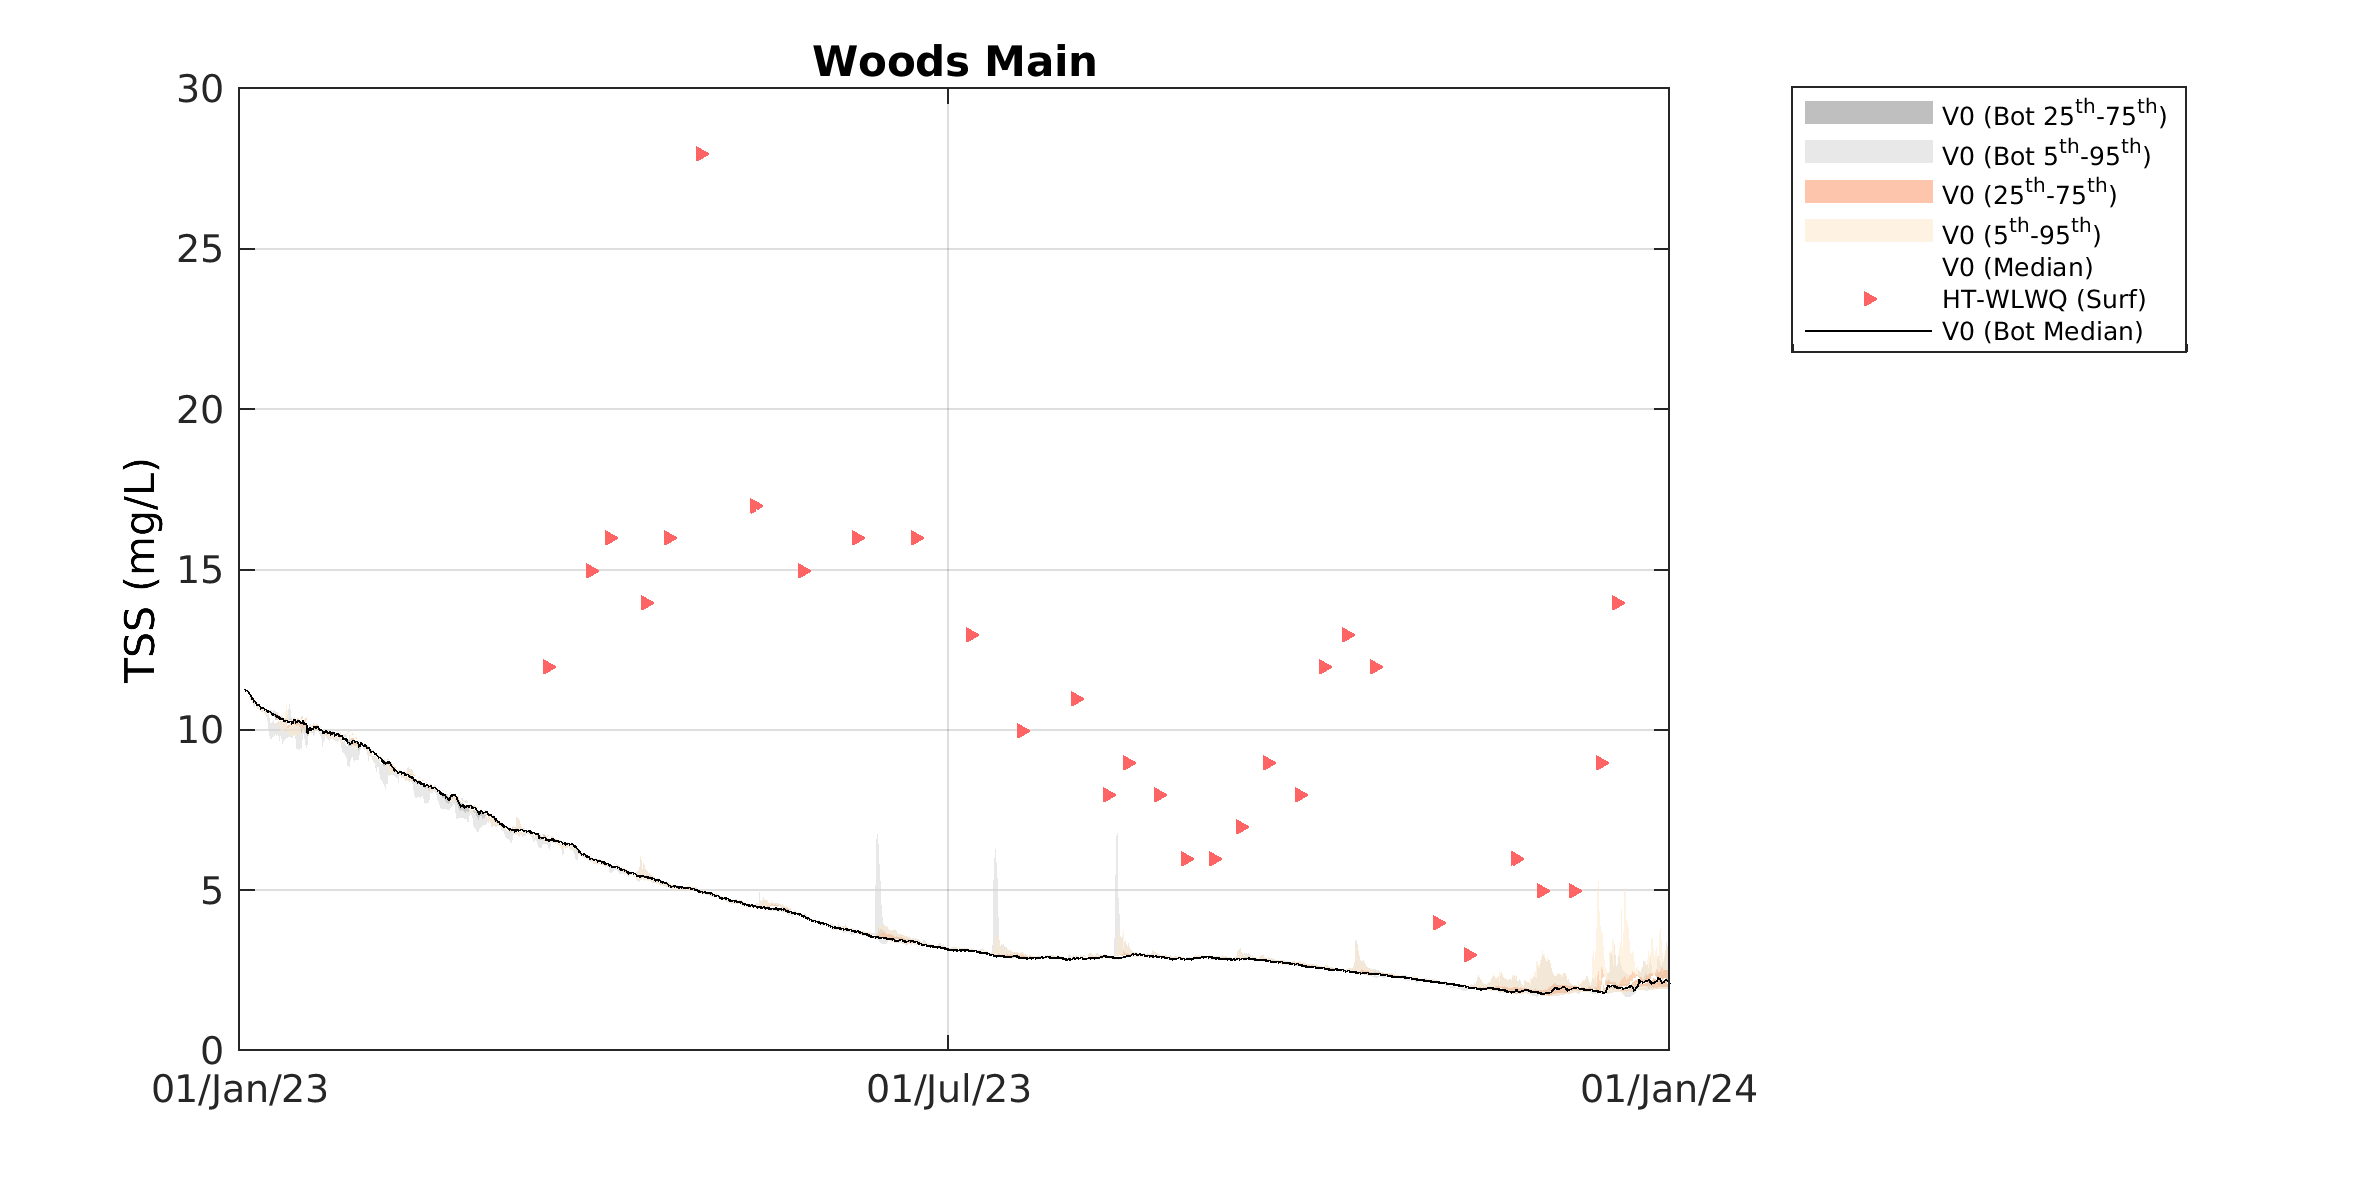
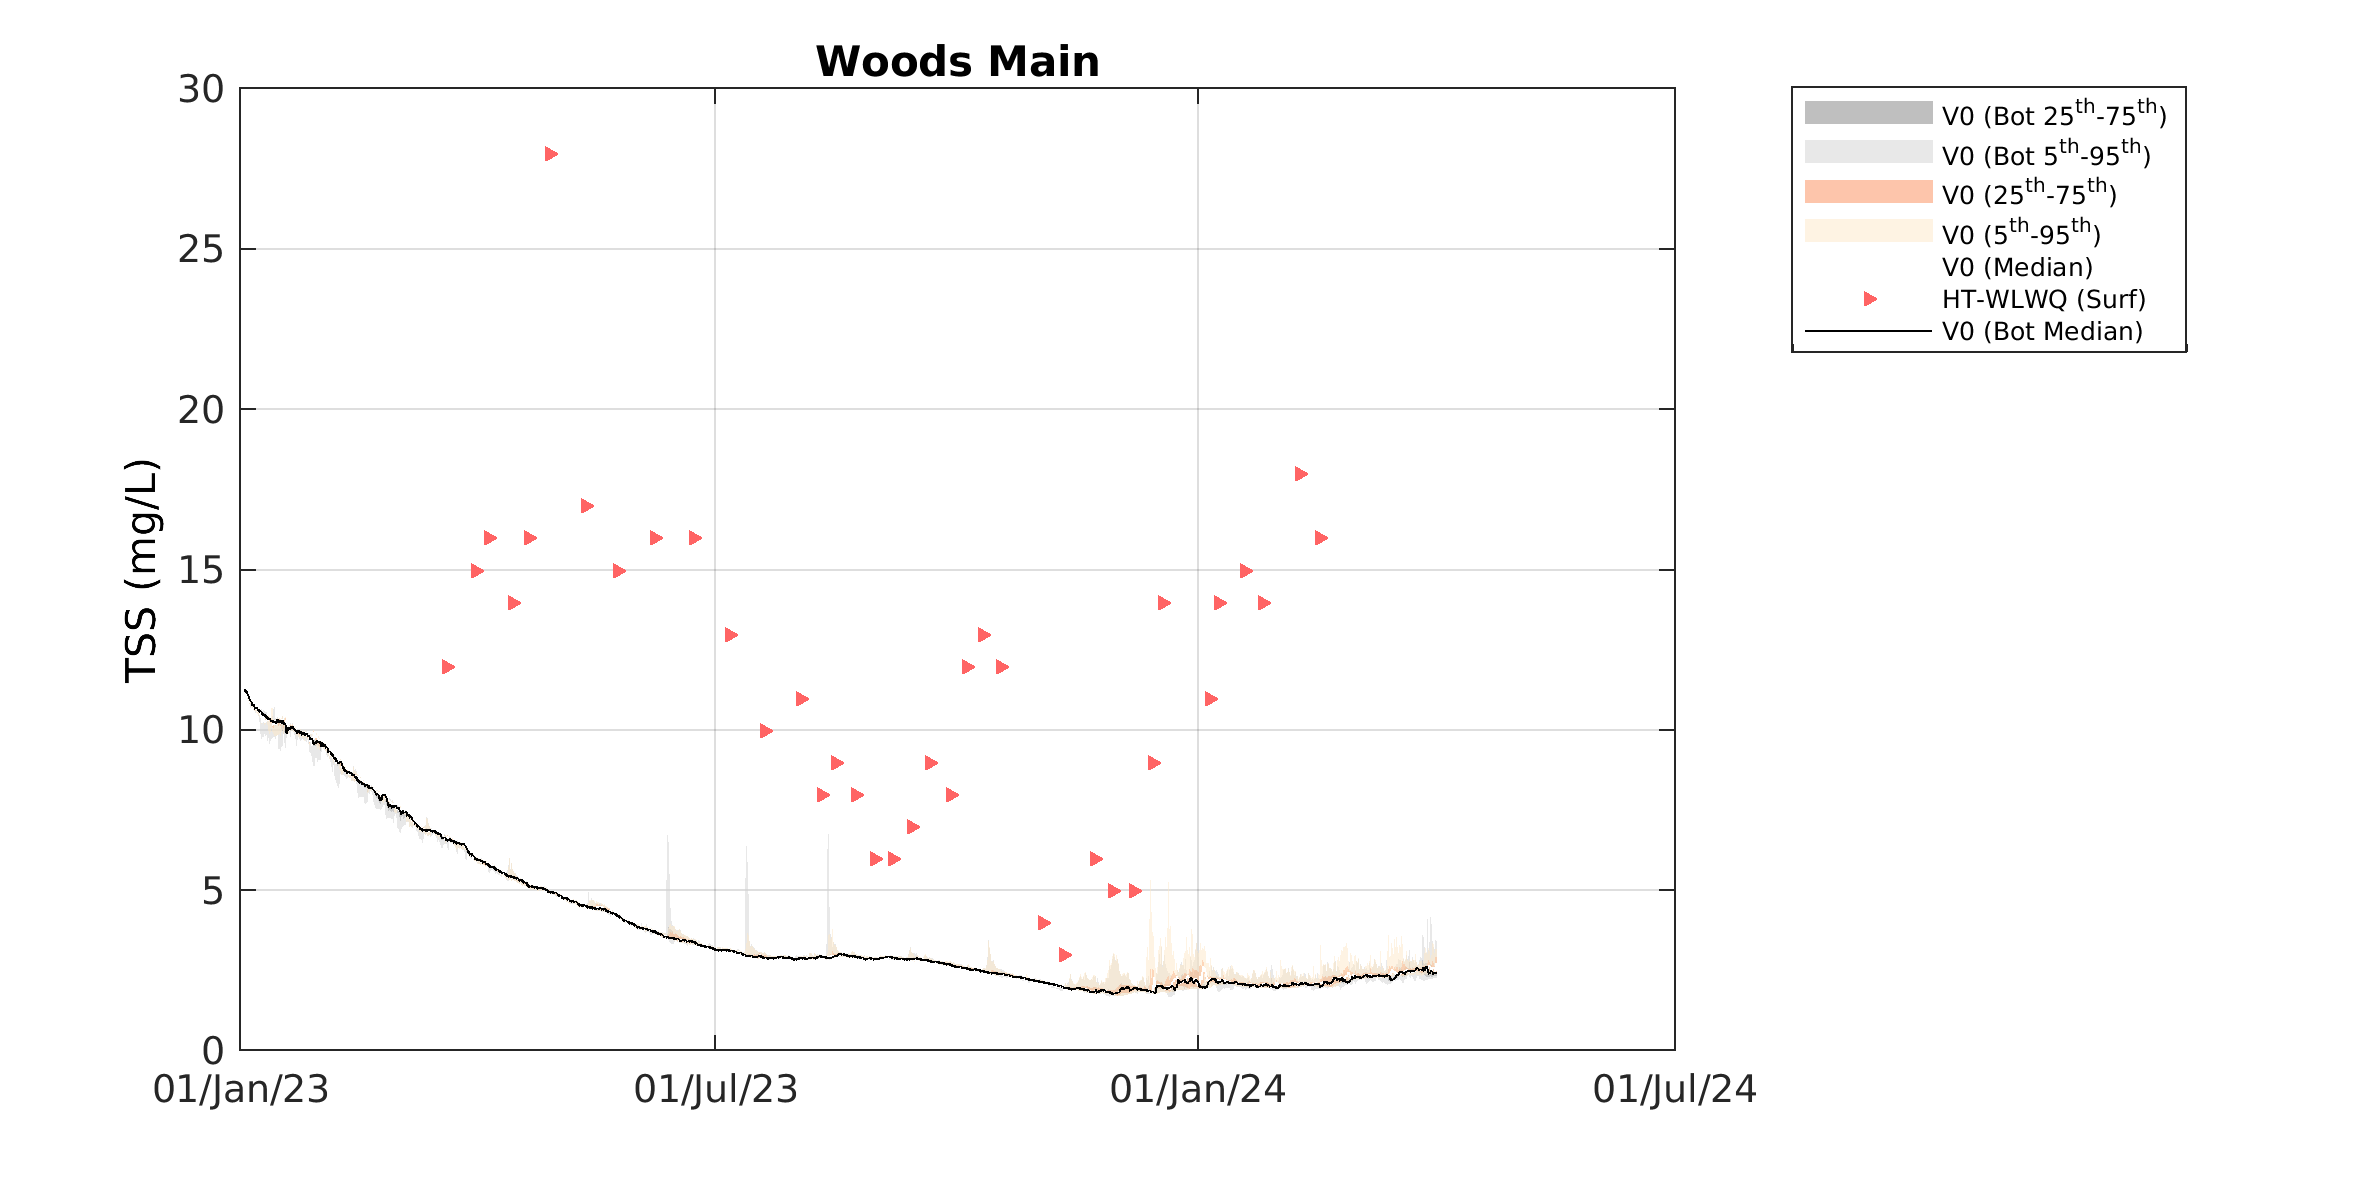
update marvl aed plot

diff --git a/marvl-config/MARVL_WQ_AED.m b/marvl-config/MARVL_WQ_AED.m
@@ -193,7 +193,7 @@ timeseries.ncfile(1).col_pal_color_bot = [[211, 211, 211]./255; [128, 128, 128].
 
 
 % plotting configuration
-timeseries.datearray = datenum(2023,01:6:16,1);
+timeseries.datearray = datenum(2023,01:6:23,1);
 timeseries.dateformat = 'dd/mmm/yy';
 
 %timeseries.dimc = [0.9 0.9 0.9]; % dimmest (lightest) color
